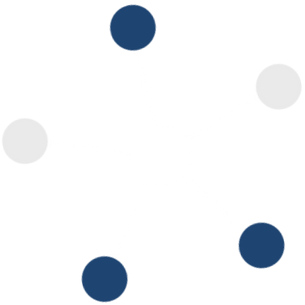
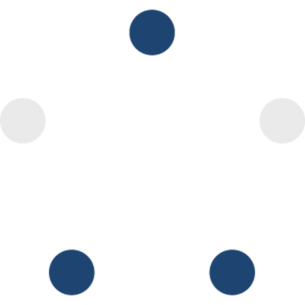
fix molecule positioning

Changed region(s): [[0.6787, 0.7082, 0.9443, 0.9738], [0.1475, 0.7967, 0.4426, 1.0], [0.3541, 0.0, 0.5902, 0.2066]]

diff --git a/index.html b/index.html
@@ -210,9 +210,12 @@
                     <img class="path-side-one" src="./images/path-side.png" alt="">
 
                     <div class="circles">
-                        <i class="circle-main left blue-color"></i>
+                        <i class="circle-main left blue-color">
+                            <!-- <img class="molecule" src="./images/molecule.png" alt=""> -->
+                        </i>
                         <img class="circle-main-outer left" src="./images/outer-circle.png" alt="">
                         <img class="molecule" src="./images/molecule.png" alt="">
+                        <b class='xb2'><b><b></b></b></b>
                     </div>
 
                     <div class="text-block" >

diff --git a/style.css b/style.css
@@ -536,9 +536,10 @@ p {
     position: relative;
     width: 120px;
     display: block;
-    bottom: 336px;
-    left: 38px;
+    bottom: 341px;
+    left: 39px;
     animation: 20s spin-right linear infinite -1s;
+    border:1px solid gray; 
 }
 .circles-main.two {
     position: relative;
